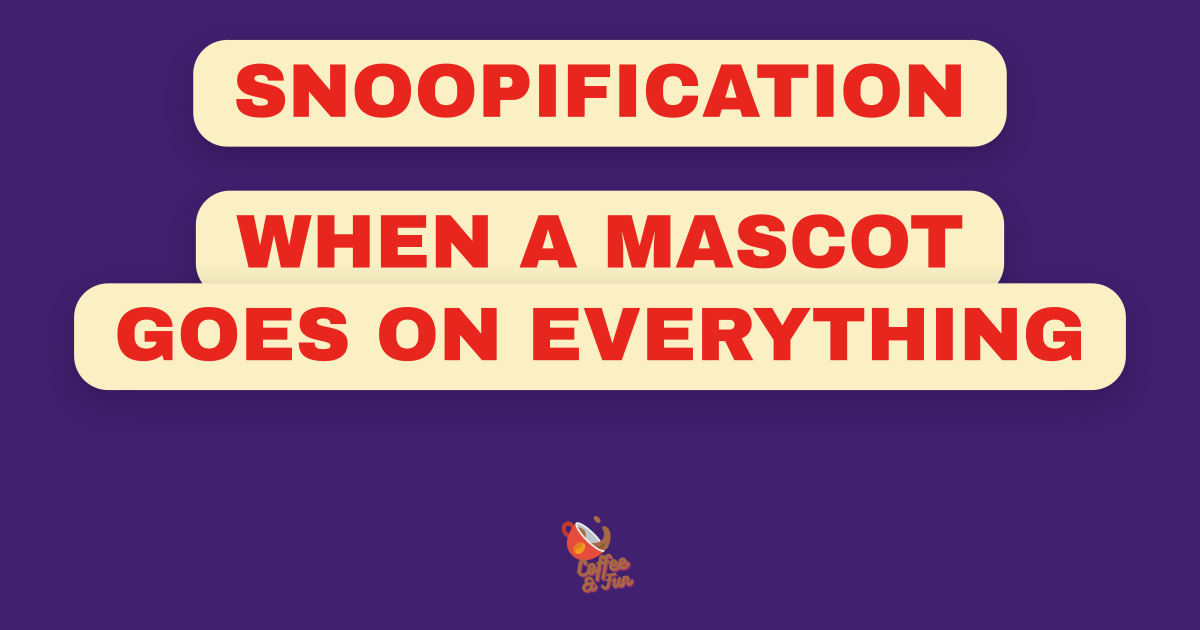
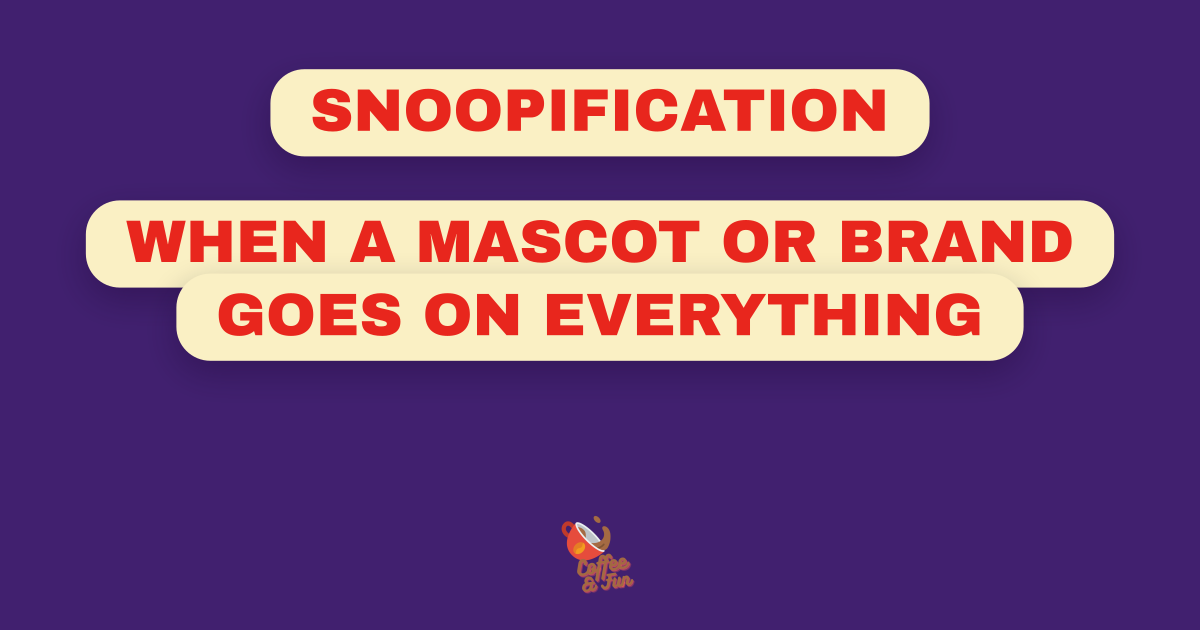
Widen snoopification to cover brands, not just mascots
Courtney's coinage was "a mascot or brand on everything" and the first
draft quietly narrowed it to mascots. Definition now covers both, and
adds a section so the wider scope is earned rather than asserted.

Supreme is the brand-side Snoopy: box logo on a $30 clay brick, a
crowbar, a fire extinguisher, Oreos at $8 a packet, all sold out. It
works because the meaning lives in the drop and the scarcity, never in
the object. Harley-Davidson is the brand-side Garfield: aftershave,
perfume, wine coolers and a 1996 children's cake decorating kit, all
withdrawals from an account nothing was paying into.

The payoff is that Harley loyalists accused the company of
"Disneyfying" the brand, which is not what Disneyfication means. They
reached for the nearest available word because the right one did not
exist. That is the argument for the term, made by people who needed it
thirty years ago.

Detection list, frontmatter, blog.json and the social card all updated
for the wider scope. Reading time 9 to 11 min. All new sources
verified live.

Changed region(s): [[0.0617, 0.3016, 0.9558, 0.6333], [0.1542, 0.0603, 0.8633, 0.2714]]

diff --git a/src/pages/blog/snoopification.md b/src/pages/blog/snoopification.md
@@ -4,24 +4,26 @@ submit: false
 footer: true
 header: true
 layout: templates/post.liquid
-title: "Snoopification: Mascots on Everything"
-description: "Snoopification is putting a mascot on every surface with no shame. Coined by Courtney Hood. Why Snoopy survives it, why Garfield paid for it, and how to spot it."
+title: "Snoopification: Mascots and Brands on Everything"
+description: "Snoopification is putting a mascot or brand on every surface with no shame. Coined by Courtney Hood. Why Snoopy and Supreme survive it, why Garfield and Harley paid for it."
 keywords:
   snoopification, mascot overexposure, brand mascot overuse, character licensing, brand dilution,
-  Snoopy licensing, Peanuts Worldwide, Garfield merchandising, Jim Davis, Charles Schulz,
-  Silver Snoopy award, Garfield phones Brittany, mascot fatigue, licensing burnout
+  brand extension failure, logo on everything, Snoopy licensing, Peanuts Worldwide,
+  Garfield merchandising, Jim Davis, Charles Schulz, Silver Snoopy award, Supreme box logo brick,
+  Harley-Davidson perfume, Garfield phones Brittany, mascot fatigue, licensing burnout
 url: blog/snoopification/
 isBlog: true
 blog_cat: Commentary
 youtubeId:
-cardTitle: "Snoopification: When a Mascot Goes on Everything"
+cardTitle: "Snoopification: When a Mascot or Brand Goes on Everything"
 blog_snip:
-  "My wife Courtney Hood coined a word for it. Snoopification: when a mascot gets put on every
-  surface with no shame. Here is why Snoopy walks away from it and Garfield did not."
+  "My wife Courtney Hood coined a word for it. Snoopification: when a mascot or a brand gets put on
+  every surface with no shame. Why Snoopy and Supreme walk away from it, and Garfield and
+  Harley-Davidson did not."
 name: Robert James Gabriel
 img: /assets/images/blog/snoopification.png
 date: 2026-08-02T12:00:00.000Z
-time: 9 min
+time: 11 min
 tags:
   - commentary
   - branding
@@ -32,7 +34,9 @@ tags:
 My wife, Courtney Hood, coined a word I have not stopped using since.
 <!-- TODO: Robert, link Courtney here if she wants one. I did not want to guess at a URL. -->
 
-**Snoopification.** Noun. The practice of putting a mascot on every available surface, with no shame and no particular reason. To snoopify is to decide that a character is no longer a character, it is a pattern, and a pattern can go on anything.
+**Snoopification.** Noun. The practice of putting a mascot or a brand on every available surface, with no shame and no particular reason. To snoopify is to decide that a character or a logo is no longer a character or a logo, it is a pattern, and a pattern can go on anything.
+
+It works the same either way. A face and a wordmark are the same kind of asset once someone decides it can be printed on a lunchbox. Most of this post is about mascots, because mascots make the damage visible, but there is a section further down on what happens when it is a logo instead, and the pattern is identical.
 
 <!-- TODO: Robert, drop in the actual moment Courtney said it. The shop, the shelf, whatever was in her hand. The post is better with the real scene in it. -->
 
@@ -156,6 +160,20 @@ Which brings me to the quote that made me want to write this in the first place.
 
 The man who designed a cat to sell things, and then sold roughly a billion dollars of things a year, would like the cat to be known for the drawing.
 
+## The same thing happens to logos
+
+Swap the drawn character for a wordmark and nothing about the mechanism changes. The brand side has its own Snoopy and its own Garfield.
+
+**Supreme is the brand-side Snoopy.** For autumn/winter 2016 it sold [a clay brick with the box logo stamped into it](https://www.highsnobiety.com/p/supreme-brick/), around $30, and it sold out. It has also put that logo on [a crowbar, a fire extinguisher and a long tail of things nobody needs](https://www.complex.com/style/a/mike-destefano/supreme-10-weirdest-items). In February 2020 it put the logo on [Oreos](https://hypebeast.com/2020/2/supreme-oreo-collaboration-packaging-photos-release-info), three cookies for about $8, and people flipped packets on eBay for hundreds.
+
+That is snoopification with the shame dial set to zero, and it worked, for exactly the reason Snoopy works. Supreme's meaning is not manufactured in the object. It is manufactured in the scarcity, the Thursday drop, the queue, the culture the brand came out of. The brick is a receipt for belonging to something. You can stamp that logo on a brick precisely because the brick was never carrying the meaning.
+
+**Harley-Davidson is the brand-side Garfield.** In the 1990s Harley licensed its name onto aftershave, [perfume](https://museumoffailure.com/exhibition/harley-davidson-perfume), wine coolers, and, in 1996, [a children's cake decorating kit](http://brandfailures.blogspot.com/2006/11/extension-brand-failures-harley.html). Harley's meaning is generated by an actual motorcycle: the noise, the weight, the ride. Perfume cannot generate any of that. Every one of those products was a pure withdrawal from a bank account nothing was being paid into.
+
+Riders noticed, and here is the detail that made me sure this word needed to exist. Harley loyalists accused the company of **"Disneyfying"** the brand. That is not what Disneyfication means. They reached for the nearest available word because the right one did not exist. They were not describing sanitisation. They were describing surface area.
+
+So the test travels. If your logo is on a thing, ask what is refilling the well. Supreme has an answer. Harley's cake kit did not.
+
 ## Where my own theory gets shaky
 
 If I am going to argue this, I should name the case that argues back.
@@ -168,10 +186,10 @@ If I am going to argue this, I should name the case that argues back.
 
 If you make things, this is the useful part. The tells are consistent:
 
-1. **The mascot appears where it cannot help.** Error states, legal pages, invoices, a 404. If your character is apologising for a payment failure, ask who that is for.
-2. **No one can say what the character wants.** If your team can list twelve products it is on and zero things it believes, you have a pattern, not a character.
-3. **New meaning has stopped being made.** Merchandising is a withdrawal. Something has to be a deposit. Strips, episodes, stories, jokes, anything that adds rather than reprints.
-4. **The character is doing the work the product should do.** The Snoopy on the front of the shop is not why the shop is good.
+1. **It appears where it cannot help.** Error states, legal pages, invoices, a 404. If your mascot is apologising for a payment failure, or your logo is embossed on a thing that has no use for a logo, ask who that is for.
+2. **No one can say what it wants.** If your team can list twelve products it is on and zero things it believes, you have a pattern, not a character and not a brand.
+3. **New meaning has stopped being made.** Merchandising is a withdrawal. Something has to be a deposit. Strips, episodes, stories, jokes, a genuinely better motorcycle, anything that adds rather than reprints.
+4. **It is doing the work the product should do.** The Snoopy on the front of the shop is not why the shop is good. The box logo is not why the brick is a brick.
 
 None of these mean stop. Snoopy failed all four of these tests and got a couture show in Paris. They just mean know what you are spending.
 
@@ -207,5 +225,7 @@ All photographs are used under the licences listed and are credited to their pho
 - [Screen Rant on Jim Davis's 2018 Vice interview](https://screenrant.com/garfield-comic-creator-jim-davis-merchandise-legacy/)
 - [TIME](https://time.com/5561165/garfield-phones-france/) and [CBS News](https://www.cbsnews.com/news/garfield-phones-mystery-devices-washing-up-on-beaches-france/) on the Garfield phones of Brittany
 - [CNN on Mr. Peanut and Baby Nut](https://www.cnn.com/2020/02/03/business/planters-mr-peanut-baby-nut-super-bowl-2020-commercial-trnd/index.html), [Fast Company](https://www.fastcompany.com/91313082/duolingo-dead-duo-owl-social-media-campaign) and [Meltwater](https://www.meltwater.com/en/blog/duolingo-dead-mascot-campaign) on Duolingo's dead owl
+- [Highsnobiety on the Supreme brick](https://www.highsnobiety.com/p/supreme-brick/), [Complex on Supreme's strangest accessories](https://www.complex.com/style/a/mike-destefano/supreme-10-weirdest-items) and [Hypebeast on the Supreme Oreo](https://hypebeast.com/2020/2/supreme-oreo-collaboration-packaging-photos-release-info)
+- [The Museum of Failure on Harley-Davidson perfume](https://museumoffailure.com/exhibition/harley-davidson-perfume) and [Brand Failures on the wider Harley licensing run](http://brandfailures.blogspot.com/2006/11/extension-brand-failures-harley.html)
 
 The word is Courtney's. I am just the one who wrote it down.
